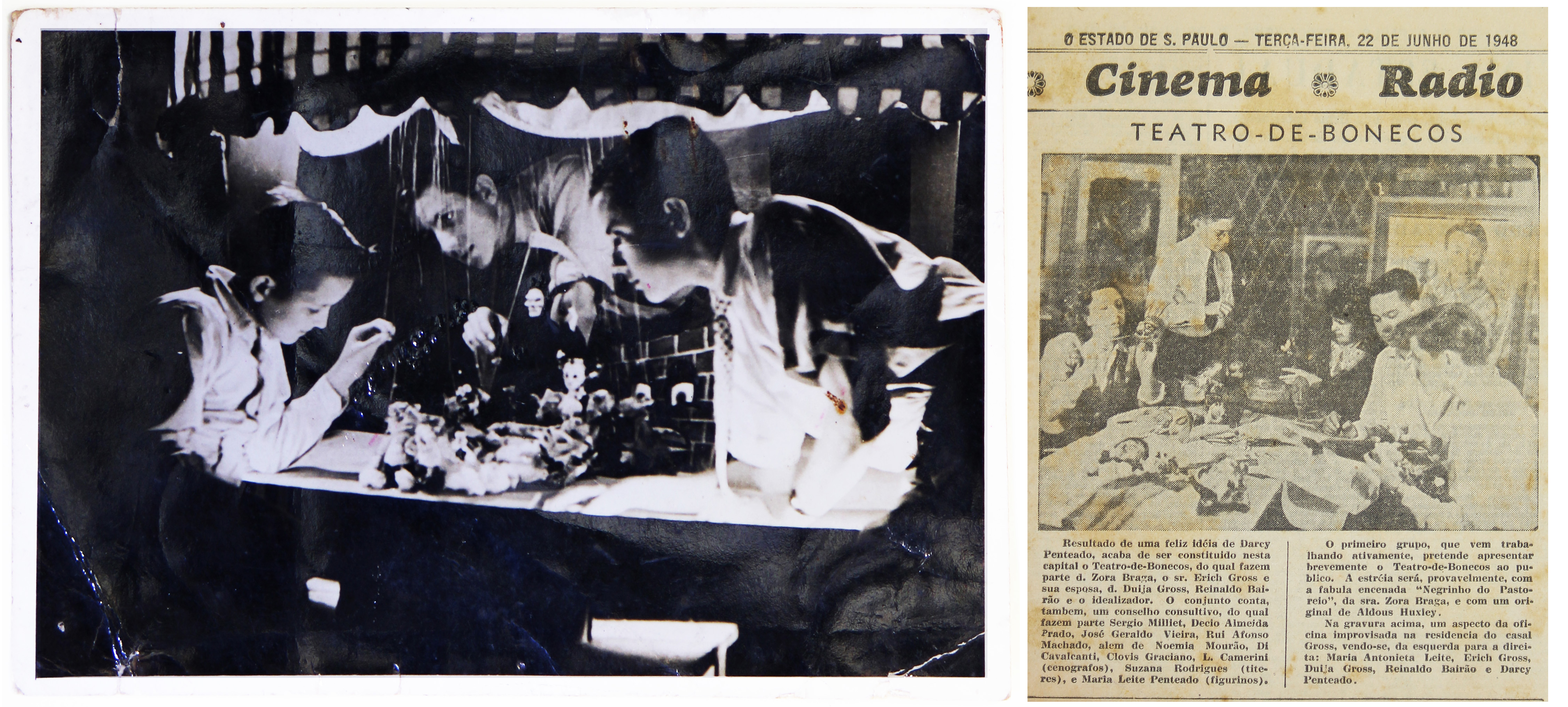
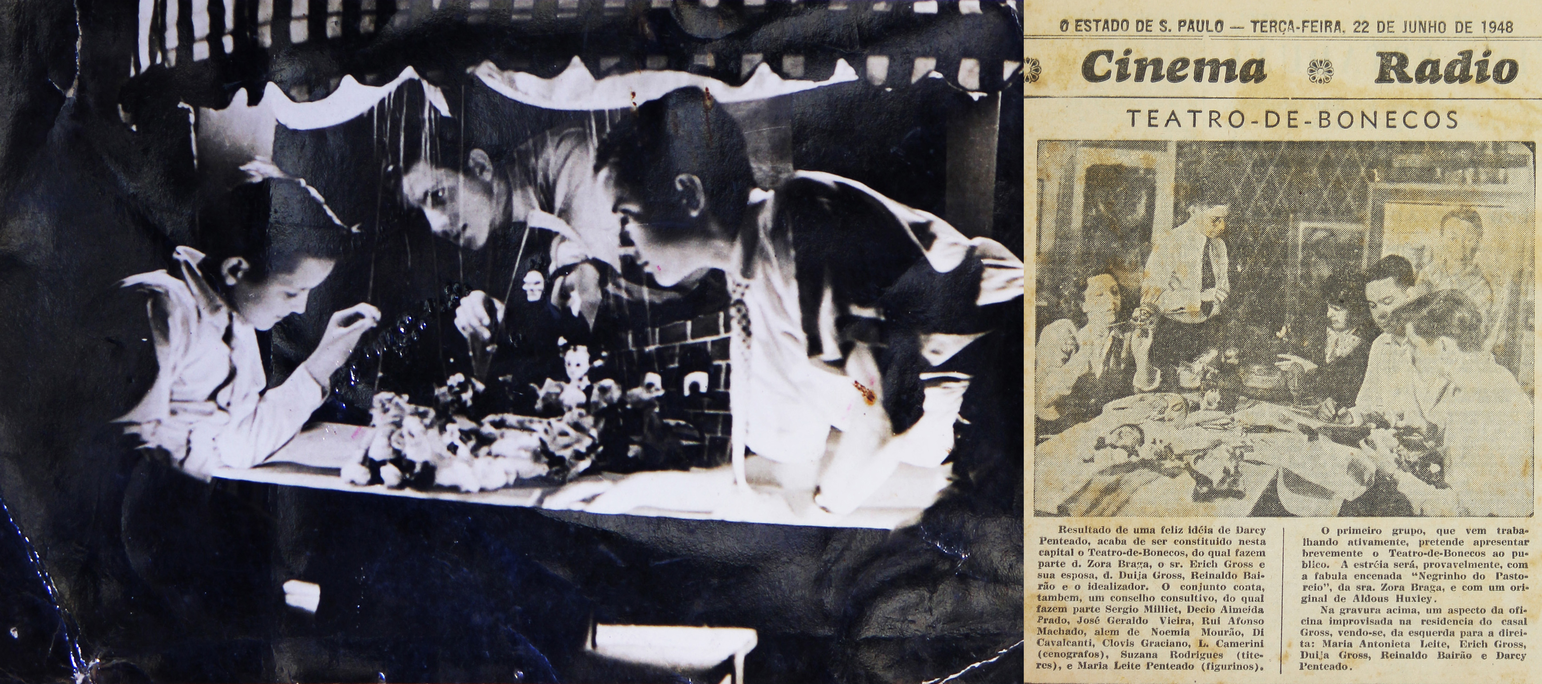
Update

diff --git a/index.html b/index.html
@@ -145,7 +145,7 @@
 					<p></p>
 
 					<div class="image fit flush">
-						<img src="images/A_02_.jpg" alt="" />
+						<img src="images/A_02.png" alt="" />
 
 						<center>À esquerda: foto de Darcy e os irmãos, teatro de bonecos, sem data.
 							À direita: reprodução de matéria de <i>O Estado de S.Paulo</i>, Teatro de Bonecos, 1948.
@@ -1303,7 +1303,7 @@
 					<p></p>
 					<strong>Design e website</strong>: Thiago José Cóser
 					<p></p>
-					<strong>Revisão de texto:</strong> Gislaine Maria da Silva
+					<strong>Edição e Revisão de texto:</strong> Gislaine Maria da Silva
 					<p></p>
 					<strong>Historiadoras:</strong> Alice Prado e Alessandra Matheus
 					<p></p>
